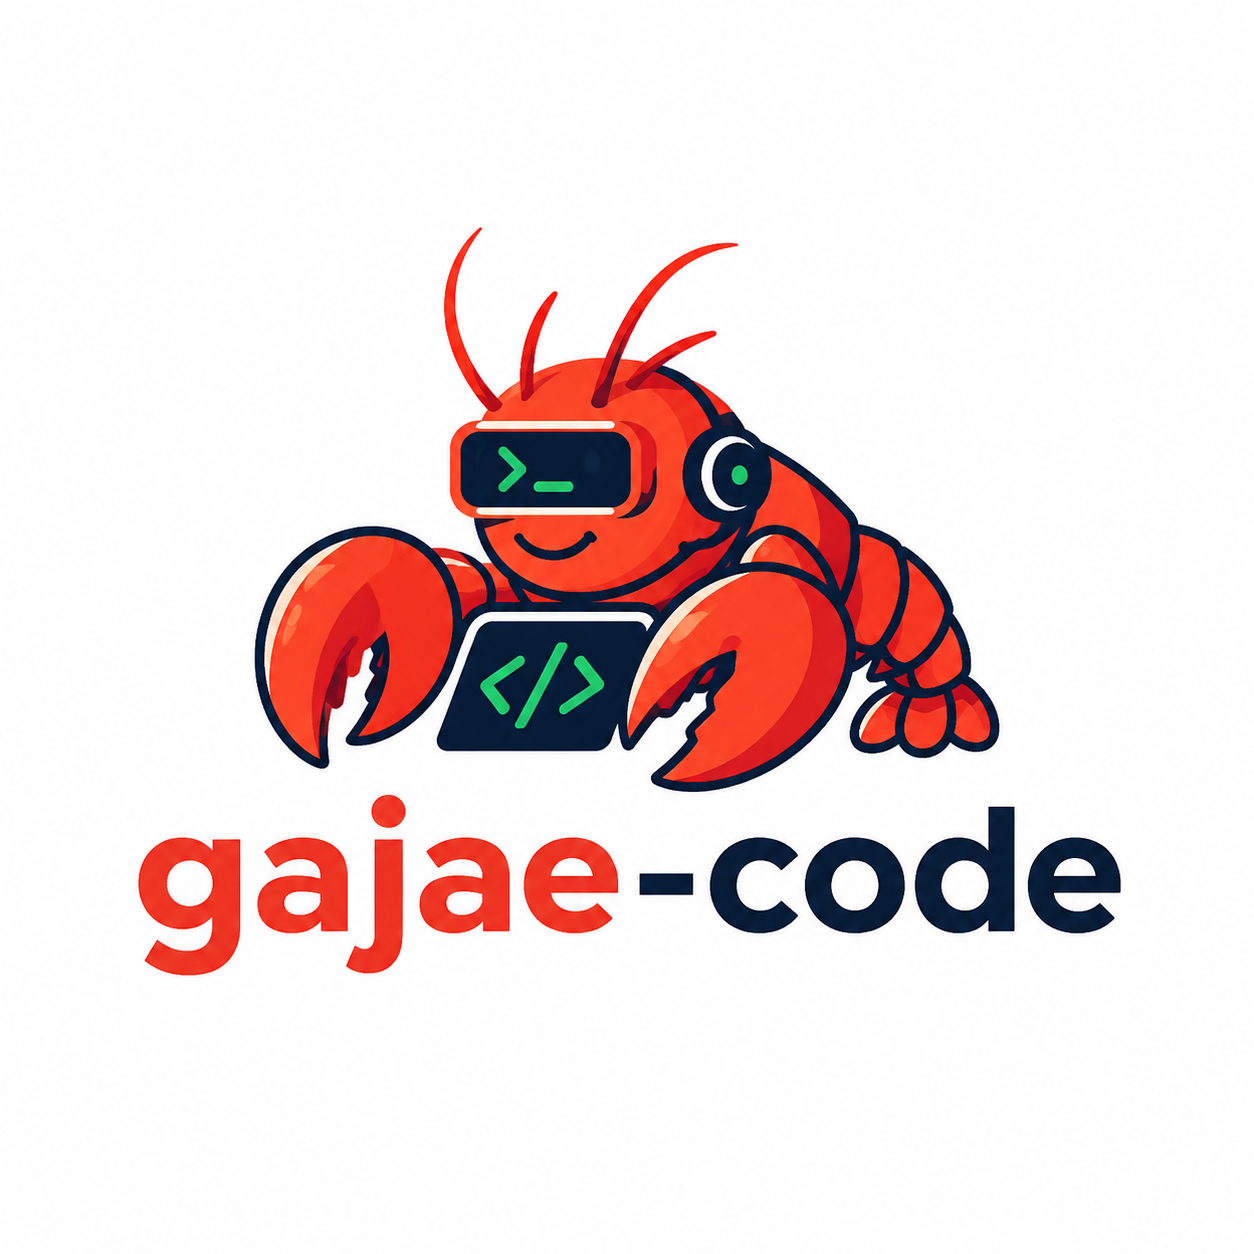
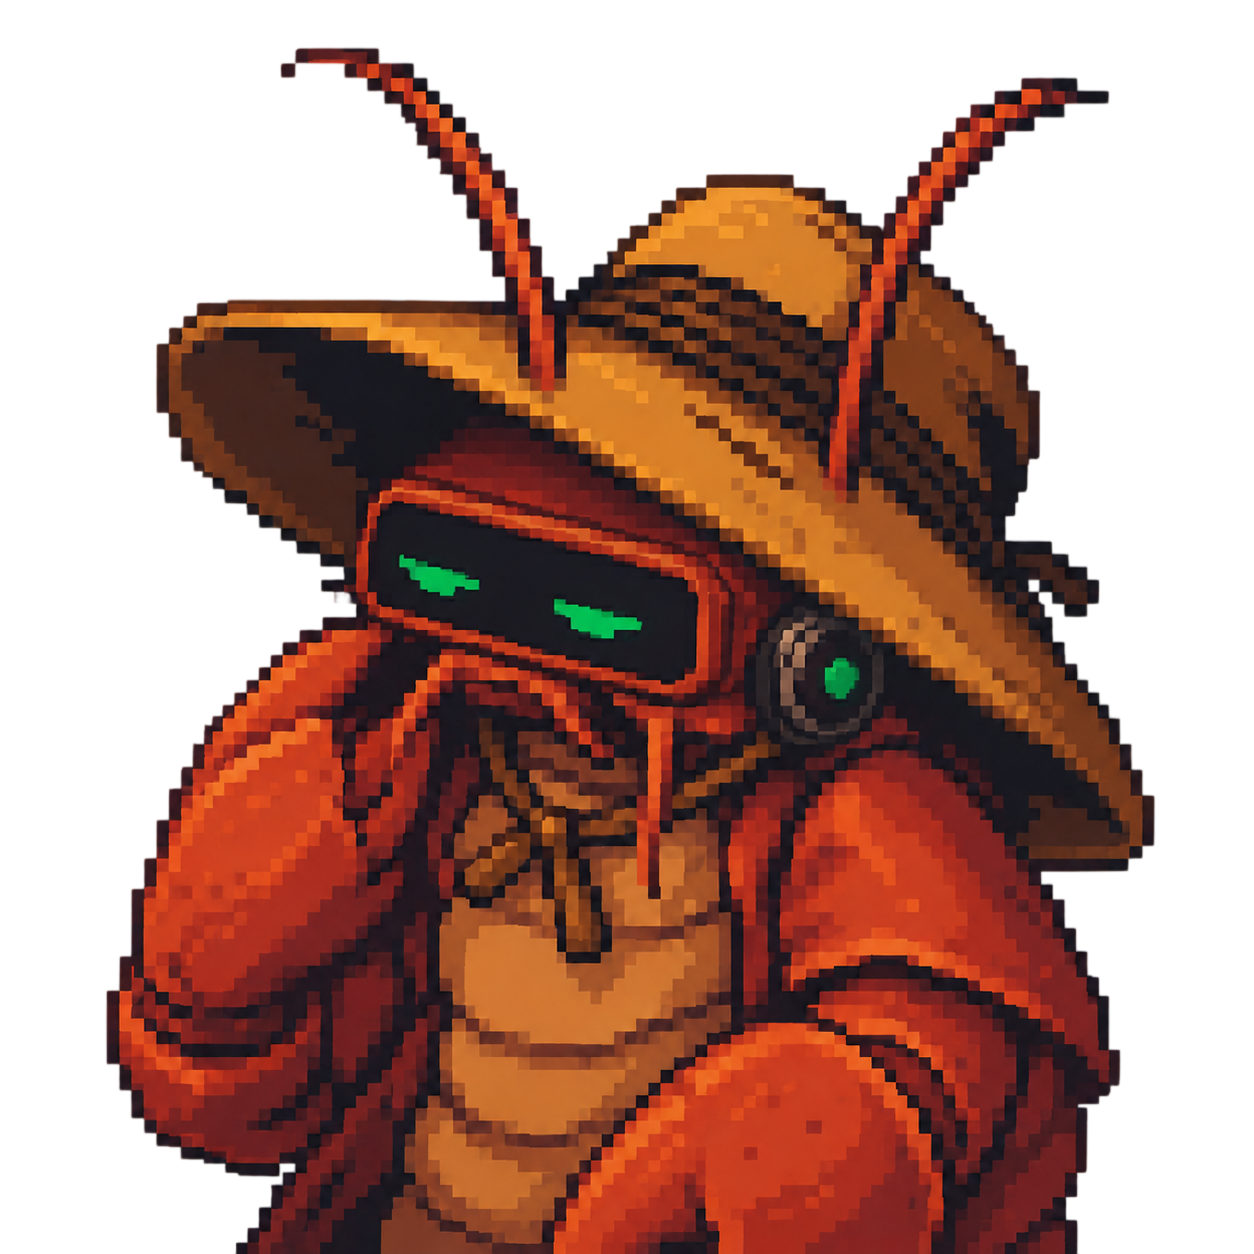
docs: refresh README presentation
Refresh README presentation and product imagery. Verified README formatting, referenced paths, PNG assets, and CI. Closes no issue.

diff --git a/README.md b/README.md
@@ -1,5 +1,3 @@
-> Disclaimer: Gajae-Code is an experimental, beta-stage early project. Expect rough edges and verify outputs before relying on it for important work.
-
 <p align="center">
   <img src="assets/hero.png" alt="Gajae-Code autonomous coding-agent hero illustration" width="100%" />
 </p>
@@ -7,110 +5,83 @@
 <h1 align="center">Gajae-Code</h1>
 
 <p align="center">
-  A red-claw coding-agent harness for crisp interviews, resilient plans, tmux-native execution, and durable verification.
+  <strong>Encode intention. Decode software.</strong><br />
+  A focused coding-agent runner for interviews, reviewed plans, tmux-native execution, and durable verification.
 </p>
 
 <p align="center">
-  <img src="assets/character.png" alt="Gajae-Code character mascot" width="360" />
+  <a href="https://www.npmjs.com/package/gajae-code"><img alt="npm package" src="https://img.shields.io/npm/v/gajae-code?style=flat-square"></a>
+  <a href="LICENSE"><img alt="MIT license" src="https://img.shields.io/badge/license-MIT-green?style=flat-square"></a>
+  <a href="https://discord.gg/sj4exxQ9v"><img alt="Discord" src="https://img.shields.io/badge/Discord-join-5865F2?style=flat-square&logo=discord&logoColor=white"></a>
 </p>
 
 <p align="center">
-  <a href="https://discord.gg/sj4exxQ9v">Join the Discord community</a>
+  <img src="assets/character.png" alt="Gajae-Code character mascot" width="320" />
 </p>
 
-## Story
+> Gajae-Code is an experimental, beta-stage project. Expect rough edges and verify outputs before relying on it for important work.
 
-I created an earlier OpenAI code harness and `an earlier Anthropic-code harness`. After living with those harnesses, I felt the same thing kept happening: the harness got bloated, but the work still collapsed into one useful loop.
+## What is Gajae-Code?
 
-## Usage
-
-Gajae-Code is published through the normal npm registry as `gajae-code`; that package installs the standalone `gjc` binary:
-
-```sh
-bun install -g gajae-code
-```
-
-The scoped package is also available as `@gajae-code/coding-agent`. Install `gjc` once in your shell environment, then launch it from the repository you want it to operate on. Installing GJC does **not** inject it into Codex CLI, Claude Code, OpenCode, Claw Code, or every editor/agent runtime automatically.
-
-Recommended launch paths:
-
-| Situation                             | Command                        | Notes                                                                                                                                 |
-| ------------------------------------- | ------------------------------ | ------------------------------------------------------------------------------------------------------------------------------------- |
-| Direct interactive session            | `gjc`                          | Runs in the current checkout without creating or attaching a tmux session.                                                            |
-| Long-running or pane-friendly session | `gjc --tmux`                   | Creates or attaches a GJC-managed tmux-backed leader session. Run `gjc team ...` inside that session when parallel tmux workers help. |
-| Branch-local or risky work            | `gjc --tmux --worktree <path>` | Use a dedicated Git worktree path so edits, evidence, and tool output stay isolated from the main checkout.                           |
-
-Use a worktree-backed run when the task may touch many files, needs a clean branch for review, or should not risk polluting your primary checkout. For repository development, use the source checkout commands in [Development](#development).
-
-### Using GJC with other coding agents
-
-GJC is an external runner, not runtime injection. Start `gjc` from the same repository or dedicated Git worktree where Hermes, Claw Code, or another coding tool is operating, then use GJC to drive the public workflow surface: `deep-interview`, `ralplan`, `ultragoal`, and optional `team` workers. Installing GJC does **not** patch another agent runtime, install hidden routing, or make GJC run inside that tool.
-
-Canonical orchestration flow:
-
-1. Create or choose the target checkout, usually a branch-specific Git worktree for reviewable work.
-2. Launch or attach the GJC leader from that directory with `gjc --tmux`, or use `gjc --tmux --worktree <path>` when GJC should create/use the worktree path.
-3. Submit the appropriate workflow command inside the session: `/skill:deep-interview` for ambiguous requirements, `/skill:ralplan` for a reviewed plan, then `gjc ultragoal ...` for durable execution/evidence tracking.
-4. Add `gjc team ...` only when parallel tmux workers materially help; it is an optional execution lane, not a required handoff.
-5. Collect the stop state before handing work back: changed files, checks run, failures, remaining risks, and evidence links or summaries.
-
-| Tool                         | Recommended GJC command                                                         | Boundary / limitation                                                                                                           |
-| ---------------------------- | ------------------------------------------------------------------------------- | ------------------------------------------------------------------------------------------------------------------------------- |
-| Codex CLI                    | `gjc --tmux --worktree <path>` for branch-local work, or `gjc` for a quick pass | External-runner workflow: run both from the same repo/worktree. GJC is not installed inside Codex CLI.                          |
-| Claude Code                  | `gjc --tmux` from the target repo, optionally with `--worktree <path>`          | External-runner workflow: keep Claude Code pointed at the same checkout. GJC does not become a Claude Code extension.           |
-| OpenCode                     | `gjc` or `gjc --tmux` from the same checkout OpenCode uses                      | External-runner workflow only today. Treat deeper adapter behavior as future work unless documented in a release note.          |
-| Rust `claw-code` / Claw Code | `gjc --tmux --worktree <path>` when you want isolated evidence and review state | External-runner workflow only today. GJC does not install into Claw Code, replace its runtime, or expose private routing logic. |
-
-For remote-control protocol details, see [`docs/bridge.md`](docs/bridge.md). The bridge is a public control surface for an already-running GJC session; it is not a deployment recipe for private Hermes/Claw routing.
-
-
-## Provider retry budgets
-
-Gajae-Code has two retry layers:
-
-- Session auto-retry (`retry.maxRetries`) retries a failed assistant turn after a terminal transient error.
-- Provider retry budgets control retries inside the provider transport before that terminal error reaches the session.
-
-Configure provider budgets in `~/.gjc/config.yml` (or the active project/user settings source). JSON Schemas for YAML editor integration are checked in at `schemas/config.schema.json` and `schemas/models.schema.json`:
-
-```yaml
-retry:
-  # Similar to codex-cli request_max_retries. Counts retries, not the initial request.
-  requestMaxRetries: 4
-  # Similar to codex-cli stream_max_retries. Counts replay-safe stream retries.
-  streamMaxRetries: 100
-  # Session-level terminal-error retries remain separately configurable.
-  maxRetries: 3
-  maxDelayMs: 300000
-```
-
-`requestMaxRetries` applies to provider SDK/fetch retries before a stream is established. `streamMaxRetries` applies only when a provider can safely replay a transient stream failure before user-visible content or in provider-specific replay-safe paths. Invalid auth, unsupported models/providers, malformed requests, context overflow, user aborts, and permanent quota failures remain fail-fast instead of being hidden by retry loops.
-
-## Default TUI identity
-
-The default dark TUI identity is the GJC red-claw theme, while light-appearance terminals default to the bundled blue-crab theme. Explicit user theme settings still win.
-
-## Why Gajae-Code?
-
-Gajae-Code (`gjc`) keeps the public agent surface intentionally small while making the runtime around it dependable. It focuses on one useful loop:
+Gajae-Code (`gjc`) is an external coding-agent harness. It runs from the repository or worktree you choose, then gives the agent a small, explicit workflow surface:
 
 ```text
 deep-interview -> ralplan -> ultragoal
                          └─ optional team execution when parallel tmux workers help
 ```
 
-Use `deep-interview` to clarify intent, `ralplan` to critique the approach, and `ultragoal` to carry the work through implementation, revision, verification, and an evidence summary. Add `team` only when the task benefits from coordinated parallel workers; `team` is an optional execution mode, not a required handoff step. The result is a compact CLI that stays easy to reason about, but still gives you session state, worktree isolation, tmux orchestration, tool execution, and persistent evidence when the work needs it.
+It is intentionally not a hidden plugin for Codex CLI, Claude Code, OpenCode, or Claw Code. Start `gjc` beside those tools when you want structured planning, persistent evidence, tmux-backed workers, or an isolated worktree.
+
+## Install
+
+```sh
+bun install -g gajae-code
+```
+
+The scoped package is also available as `@gajae-code/coding-agent`.
+
+## Quick start
+
+```sh
+# Run directly in the current checkout
+gjc
+
+# Use a tmux-backed leader session
+gjc --tmux
+
+# Use an isolated worktree for risky or reviewable work
+gjc --tmux --worktree ../my-task-worktree
+```
+
+Inside a GJC session, use the public workflow surface:
+
+```text
+/skill:deep-interview clarify ambiguous requirements
+/skill:ralplan build and critique the implementation plan
+gjc ultragoal create-goals --brief-file <approved-plan>
+gjc ultragoal complete-goals
+```
+
+Add `gjc team ...` only when coordinated tmux workers materially help.
+
+## Core capabilities
+
+- **Interview before guessing**: `deep-interview` turns vague requests into concrete requirements.
+- **Plan before mutation**: `ralplan` reviews the approach before code changes.
+- **Execute with evidence**: `ultragoal` tracks goals, revisions, checks, and completion evidence.
+- **Parallelize when useful**: `team` coordinates tmux-backed workers for larger tasks.
+- **Stay external and reviewable**: run from a chosen repo or worktree without patching another agent runtime.
 
 ## Workflow surface
 
 Gajae-Code ships four default workflow skills:
 
-| Skill            | What it does                                                                                        |
-| ---------------- | --------------------------------------------------------------------------------------------------- |
-| `deep-interview` | Removes ambiguity before planning or code changes.                                                  |
-| `ralplan`        | Builds and critiques a plan before mutation.                                                        |
-| `team`           | Optionally coordinates tmux-backed parallel execution when the work benefits from multiple workers. |
-| `ultragoal`      | Tracks durable goals through implementation, revisions, verification, and evidence summaries.       |
+| Skill            | What it does                                                          |
+| ---------------- | --------------------------------------------------------------------- |
+| `deep-interview` | Clarifies ambiguous requirements before planning or code changes.     |
+| `ralplan`        | Builds and critiques an implementation plan before mutation.          |
+| `ultragoal`      | Tracks goals through execution, revision, verification, and evidence. |
+| `team`           | Coordinates tmux-backed workers when parallel execution is worth it.  |
 
 And four bundled role agents:
 
@@ -121,20 +92,36 @@ And four bundled role agents:
 | `planner`   | Read-only sequencing and acceptance criteria.      |
 | `critic`    | Read-only plan critique and actionability review.  |
 
-No sprawling default skill zoo: the harness improves by making this small method better.
+No sprawling default skill zoo: GJC improves by making this small method better.
 
-A concrete bug-fix pass might look like this:
+## Works beside your existing agent
 
-```text
-/skill:deep-interview clarify the bug, affected behavior, non-goals, and acceptance checks
-/skill:ralplan turn the clarified bug report into a reviewed fix plan
-gjc ultragoal create-goals --brief-file <approved-plan>
-# Optional only for parallel work, from inside `gjc --tmux`:
-gjc team 2:executor "split implementation and verification for this bug fix"
-gjc ultragoal complete-goals
+| Tool        | Recommended GJC command                        | Boundary                                               |
+| ----------- | ---------------------------------------------- | ------------------------------------------------------ |
+| Codex CLI   | `gjc --tmux --worktree <path>` or `gjc`        | External runner; run both from the same repo/worktree. |
+| Claude Code | `gjc --tmux` or `gjc --tmux --worktree <path>` | GJC does not become a Claude Code extension.           |
+| OpenCode    | `gjc` or `gjc --tmux`                          | External-runner workflow only today.                   |
+| Claw Code   | `gjc --tmux --worktree <path>`                 | GJC does not install into or replace Claw Code.        |
+
+For remote-control protocol details, see [`docs/bridge.md`](docs/bridge.md).
+
+## Configuration
+
+Provider retry budgets live in `~/.gjc/config.yml`:
+
+```yaml
+retry:
+  requestMaxRetries: 4
+  streamMaxRetries: 100
+  maxRetries: 3
+  maxDelayMs: 300000
 ```
 
-That flow is meant to describe the operator sequence, not to guarantee hidden automation: the agent still reports what it changed, what it revised after findings, what checks ran, and what evidence supports the fix.
+`requestMaxRetries` applies before a stream is established. `streamMaxRetries` applies only to replay-safe transient stream failures. Invalid auth, unsupported models/providers, malformed requests, context overflow, user aborts, and permanent quota failures remain fail-fast.
+
+## TUI identity
+
+The default dark TUI identity is the GJC red-claw theme, while light-appearance terminals default to the bundled blue-crab theme. Explicit user theme settings still win.
 
 ## Development
 